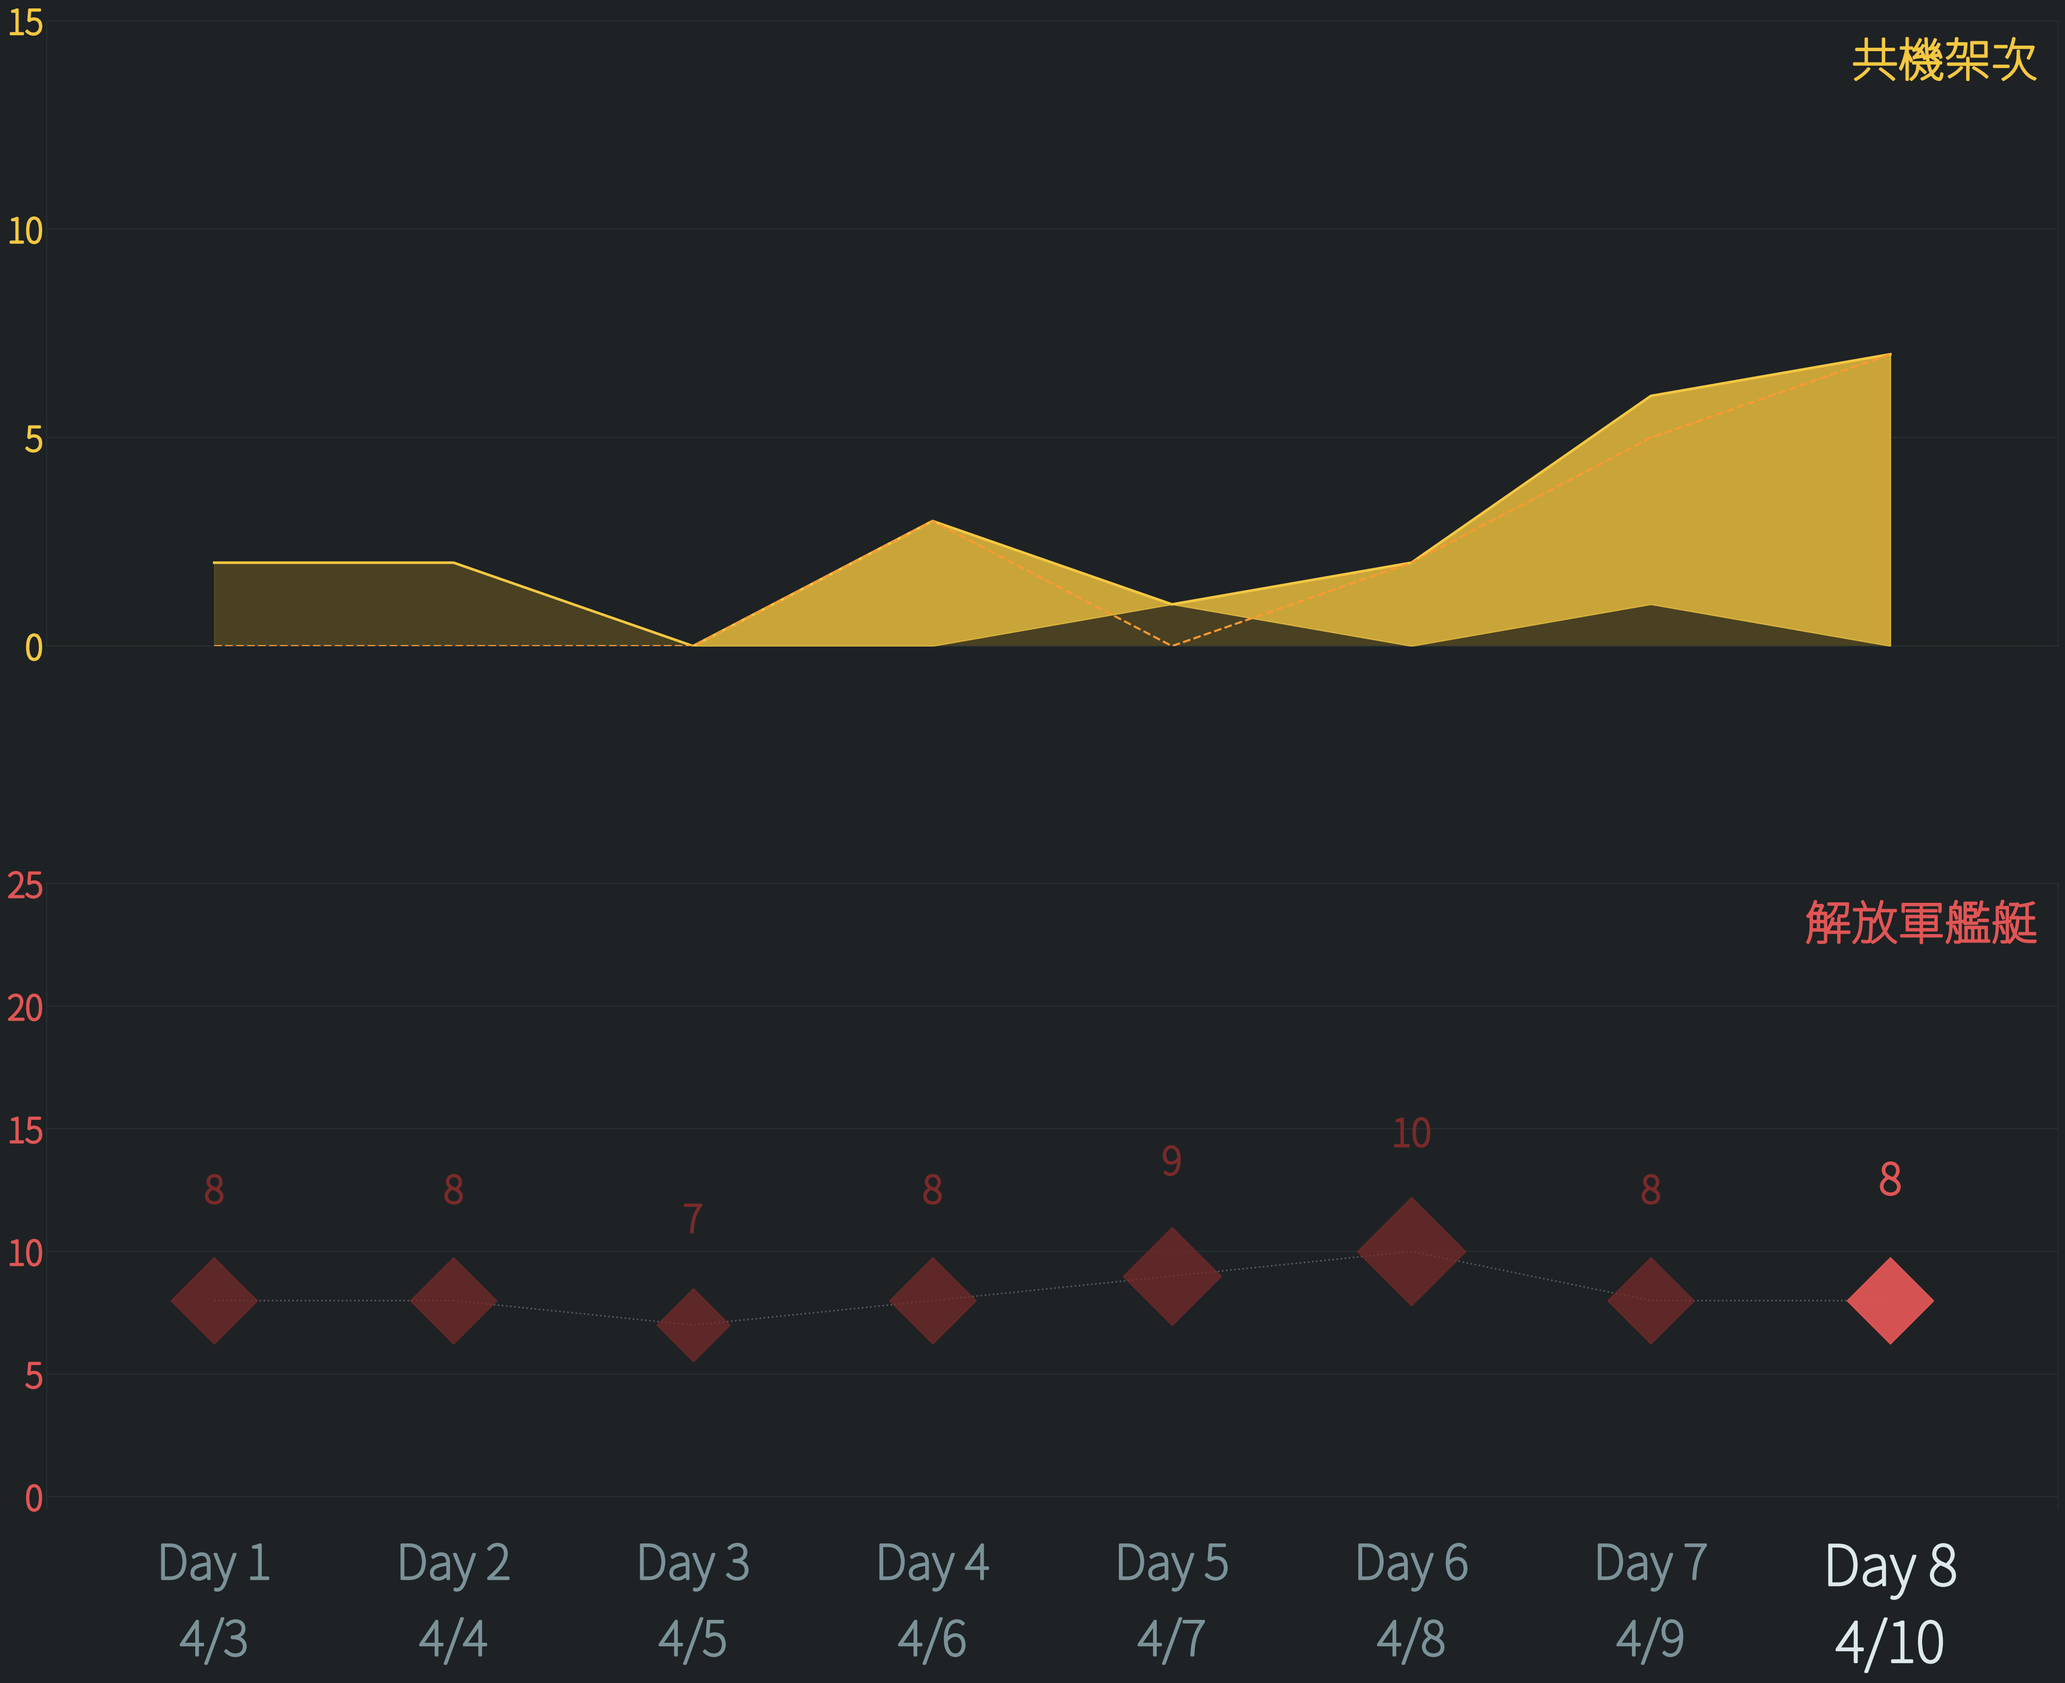
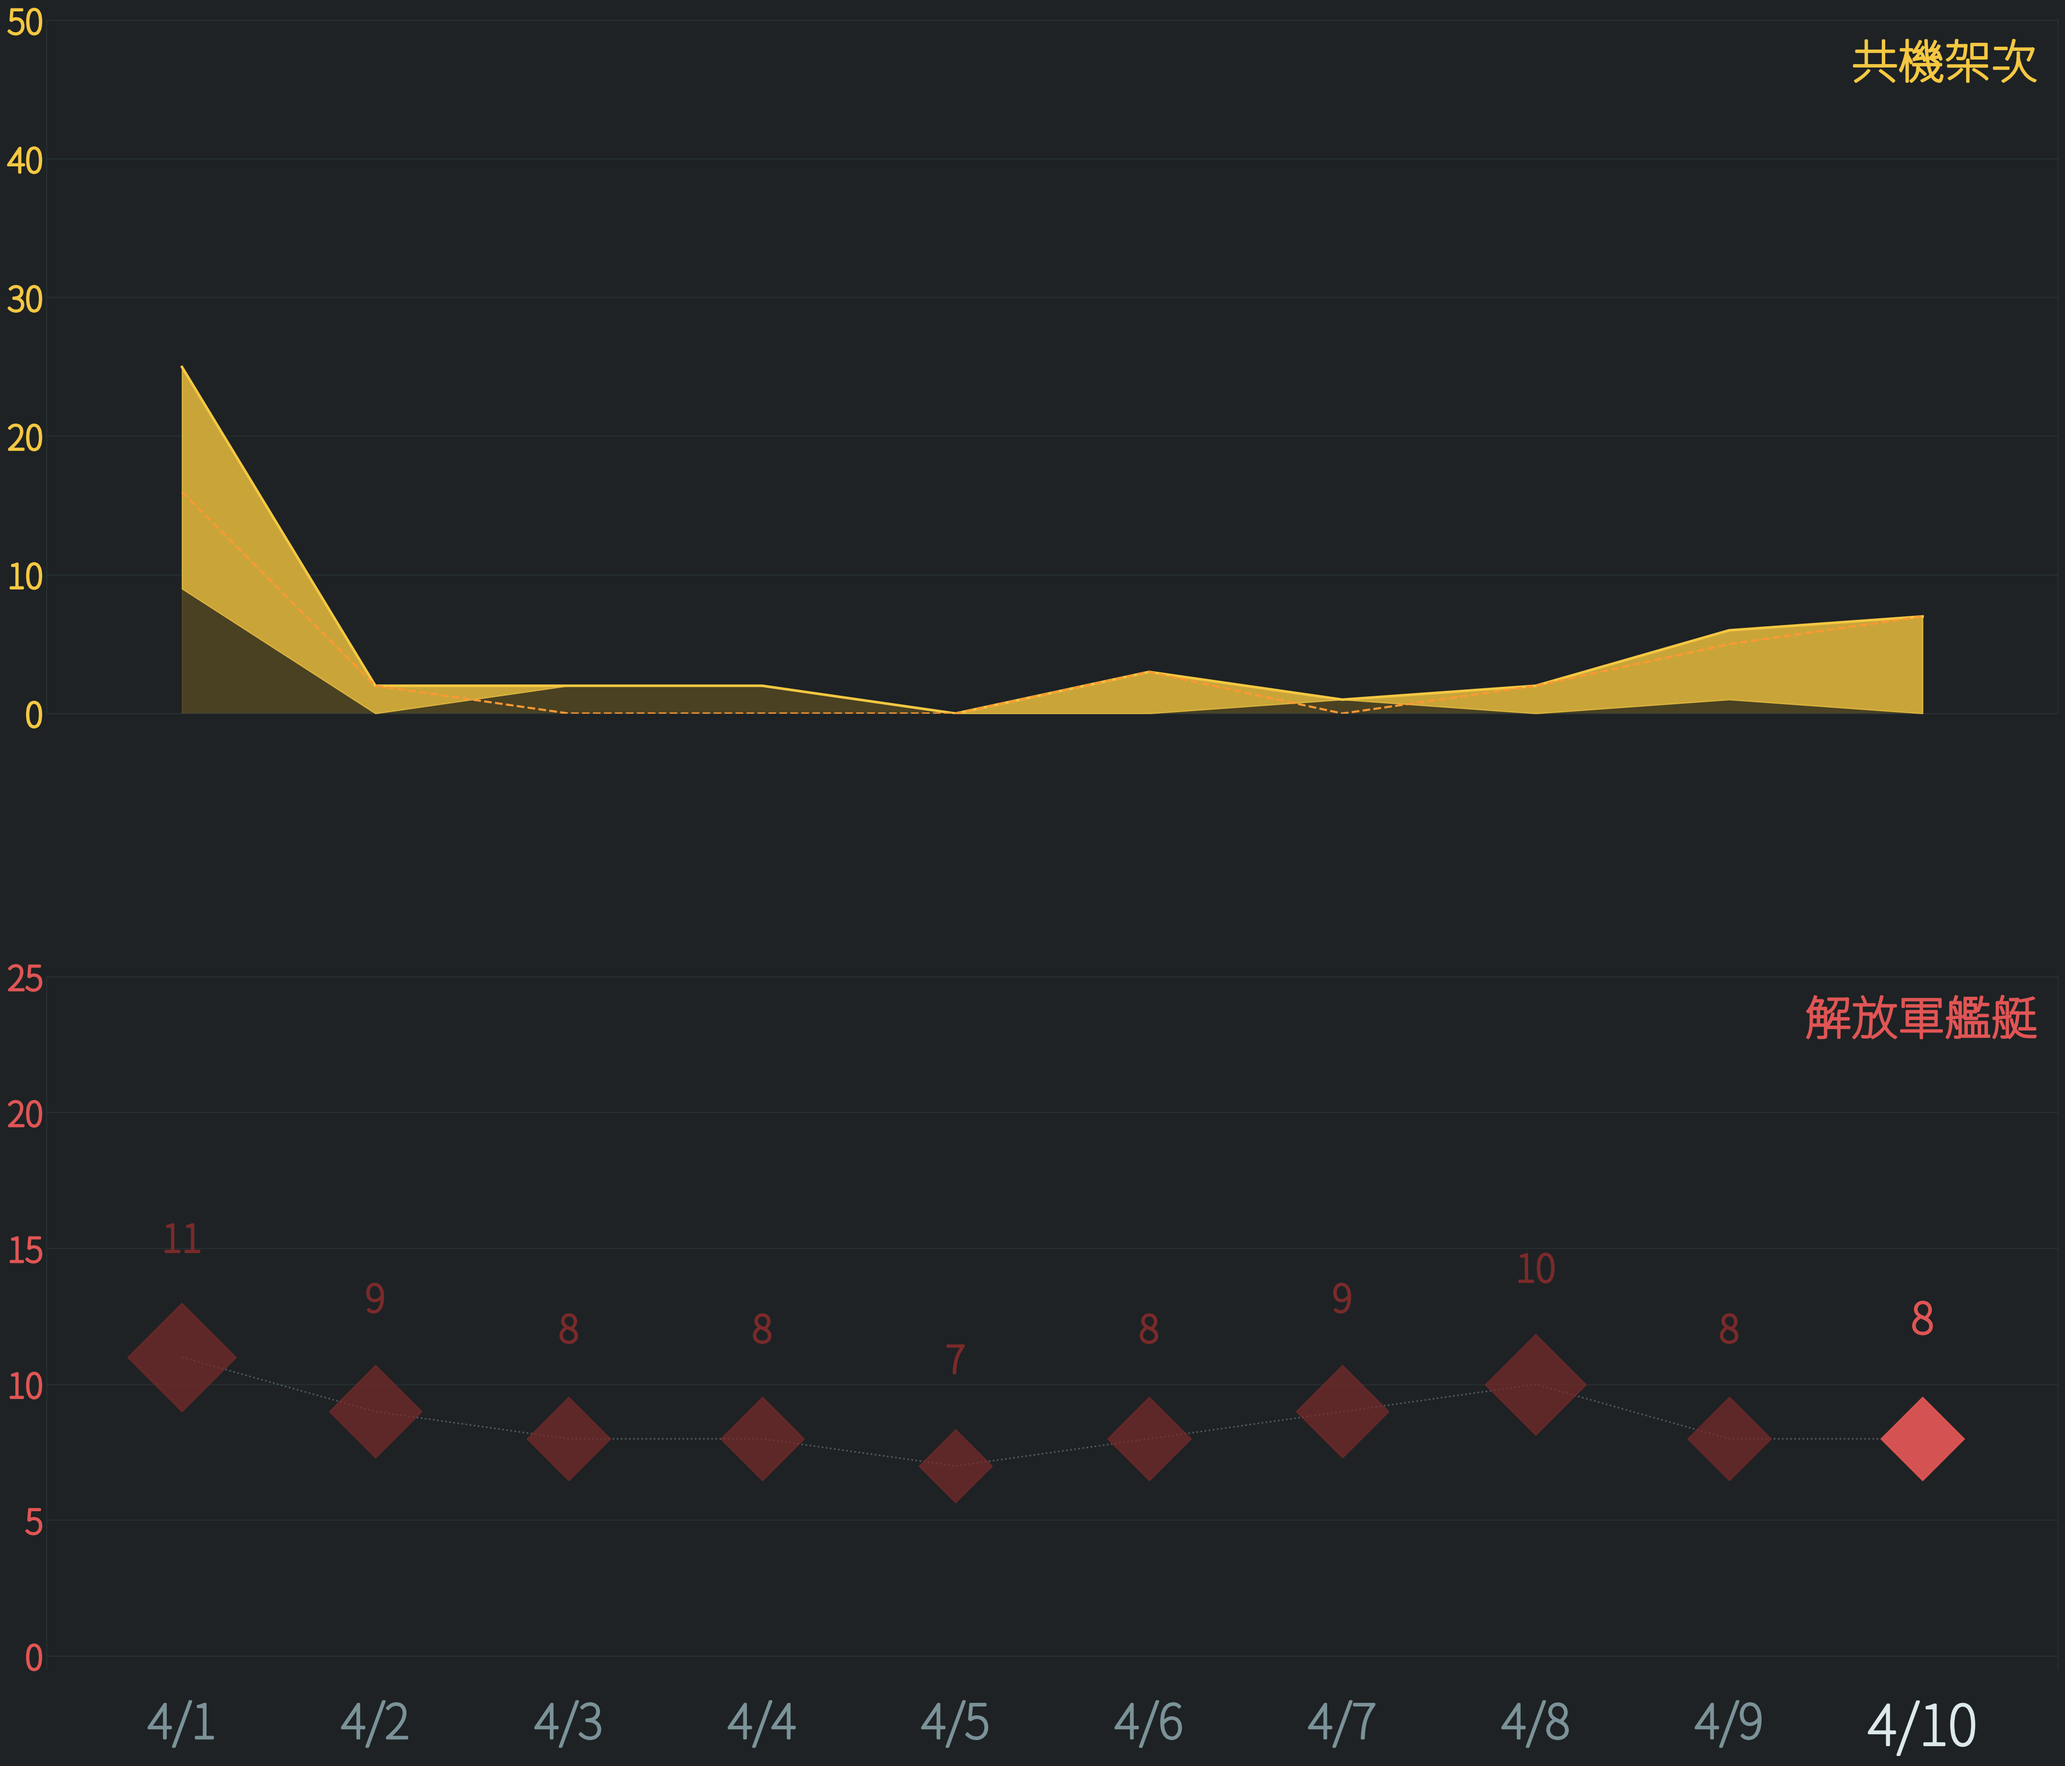
feat: 10日觀察、移除Day標籤、底部加入月度至今統計

diff --git a/index.html b/index.html
@@ -47,9 +47,9 @@
 
     <section class="chart-section">
     <div class="chart-header">
-      <span class="chart-title">今日觀察</span>
+      <span class="chart-title">10日觀察</span>
     </div>
-    <img class="chart-img" src="charts/split_2026-04-12.png" alt="今日觀察">
+    <img class="chart-img" src="charts/split_2026-04-12.png" alt="10日觀察">
   </section>
     <section class="chart-section">
     <div class="chart-header">
@@ -57,6 +57,26 @@
     </div>
     <img class="chart-img" src="charts/streak_2026-04-12.png" alt="近期趨勢">
   </section>
+
+  <div class="sitrep" style="margin-top:2.5rem">
+    <div class="sitrep-label">4月至今 &nbsp;·&nbsp; 12 天</div>
+    <div class="stats-row">
+      <div class="stat">
+        <div class="stat-n y">69</div>
+        <div class="stat-l">共機架次</div>
+      </div>
+      <div class="stat">
+        <div class="stat-n y">50</div>
+        <div class="stat-l">越中線</div>
+        <div class="stat-detail">72%</div>
+      </div>
+      <div class="stat">
+        <div class="stat-n r">8.8</div>
+        <div class="stat-l">艦艇日均</div>
+        <div class="stat-detail">艘</div>
+      </div>
+    </div>
+  </div>
 
 </main>
 

diff --git a/scripts/build_site.py b/scripts/build_site.py
@@ -225,6 +225,41 @@ def chart_section(title, img_path, obs=''):
   </section>"""
 
 
+def monthly_stats_html(df, today_date):
+    """本月至今統計區塊"""
+    month_prefix = today_date[:7]
+    df_mo = df[df['date'].str.startswith(month_prefix)].copy()
+    if df_mo.empty:
+        return ''
+    mo_ac  = int(df_mo['aircraft_total'].fillna(0).sum())
+    mo_cr  = int(df_mo['median_line_cross'].fillna(0).sum())
+    mo_sh_avg = df_mo['ships_total'].fillna(0).mean()
+    days   = len(df_mo)
+    mo_label = f"{pd.to_datetime(today_date).month}月"
+
+    cr_rate = f"{mo_cr/mo_ac*100:.0f}%" if mo_ac > 0 else '—'
+
+    return f"""<div class="sitrep" style="margin-top:2.5rem">
+    <div class="sitrep-label">{mo_label}至今 &nbsp;·&nbsp; {days} 天</div>
+    <div class="stats-row">
+      <div class="stat">
+        <div class="stat-n y">{mo_ac}</div>
+        <div class="stat-l">共機架次</div>
+      </div>
+      <div class="stat">
+        <div class="stat-n y">{mo_cr}</div>
+        <div class="stat-l">越中線</div>
+        <div class="stat-detail">{cr_rate}</div>
+      </div>
+      <div class="stat">
+        <div class="stat-n r">{mo_sh_avg:.1f}</div>
+        <div class="stat-l">艦艇日均</div>
+        <div class="stat-detail">艘</div>
+      </div>
+    </div>
+  </div>"""
+
+
 # ── index.html ────────────────────────────────────────────────────────────────
 
 def build_index(df):
@@ -303,8 +338,10 @@ def build_index(df):
     </div>
   </div>
 
-  {chart_section("今日觀察", split_img, split_obs)}
-  {chart_section("近期趨勢", streak_img, streak_obs)}
+  {chart_section("10日觀察", split_img)}
+  {chart_section("近期趨勢", streak_img)}
+
+  {monthly_stats_html(df, today_date)}
 
 </main>
 

diff --git a/scripts/chart_daily.py b/scripts/chart_daily.py
@@ -198,7 +198,7 @@ def make_split_panel_chart(df, today_date=None, obs_text=None, out_path=None):
     fig = plt.figure(figsize=(30, 27), facecolor=BG)
     gs  = gridspec.GridSpec(2, 1,
                             left=0.06, right=0.96,
-                            top=0.96,  bottom=0.22,
+                            top=0.96,  bottom=0.14,
                             hspace=0.38)
     ax_ac = fig.add_subplot(gs[0])
     ax_sh = fig.add_subplot(gs[1])
@@ -289,12 +289,9 @@ def make_split_panel_chart(df, today_date=None, obs_text=None, out_path=None):
         fs  = 54 if is_today else 46
         fc  = TXTDARK if is_today else TXTSUB
 
-        t1 = fig.text(xf, yf - 0.022, f'Day {i + 1}',
+        t1 = fig.text(xf, yf - 0.022, date_labels[i],
                       ha='center', va='top', color=fc, fontsize=fs, fontfamily=FONT)
         bold_stroke(t1)
-        t2 = fig.text(xf, yf - 0.022 - 0.038, date_labels[i],
-                      ha='center', va='top', color=fc, fontsize=fs, fontfamily=FONT)
-        bold_stroke(t2)
 
     if out_path is None:
         out_path = OUTPUT_DIR / f"split_{today_date}.png"
@@ -509,7 +506,7 @@ if __name__ == '__main__':
     parser = argparse.ArgumentParser()
     parser.add_argument('--date',  default=None, help='YYYY-MM-DD，預設最新一筆')
     parser.add_argument('--month', default=None, help='YYYY-MM，area chart 月份')
-    parser.add_argument('--days',  type=int, default=8, help='split panel 顯示天數')
+    parser.add_argument('--days',  type=int, default=10, help='split panel 顯示天數')
     parser.add_argument('--type',  choices=['streak', 'split', 'both'], default='both')
     args = parser.parse_args()
 
